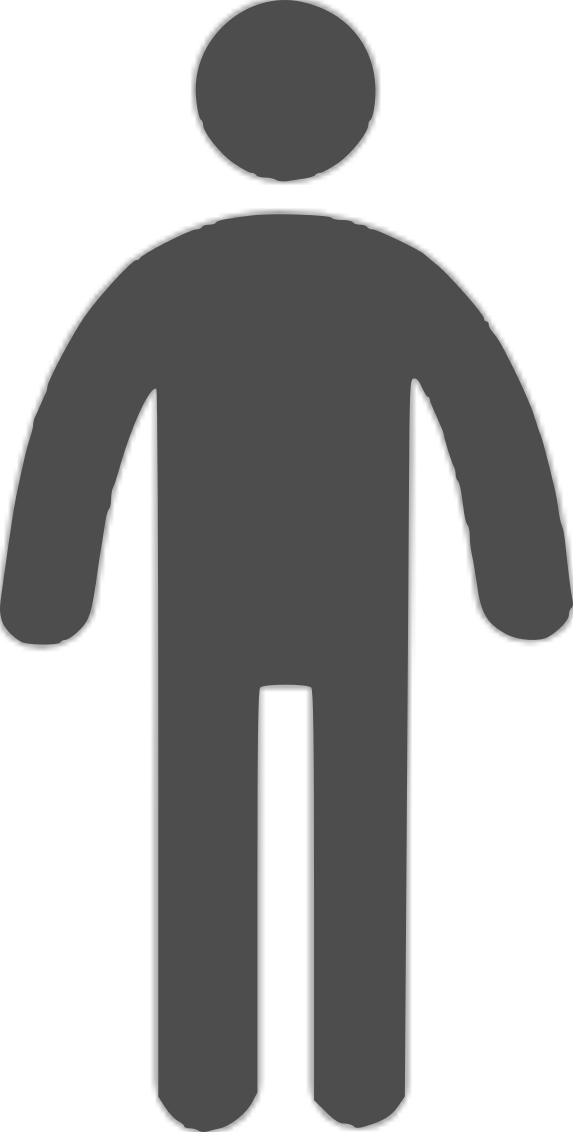
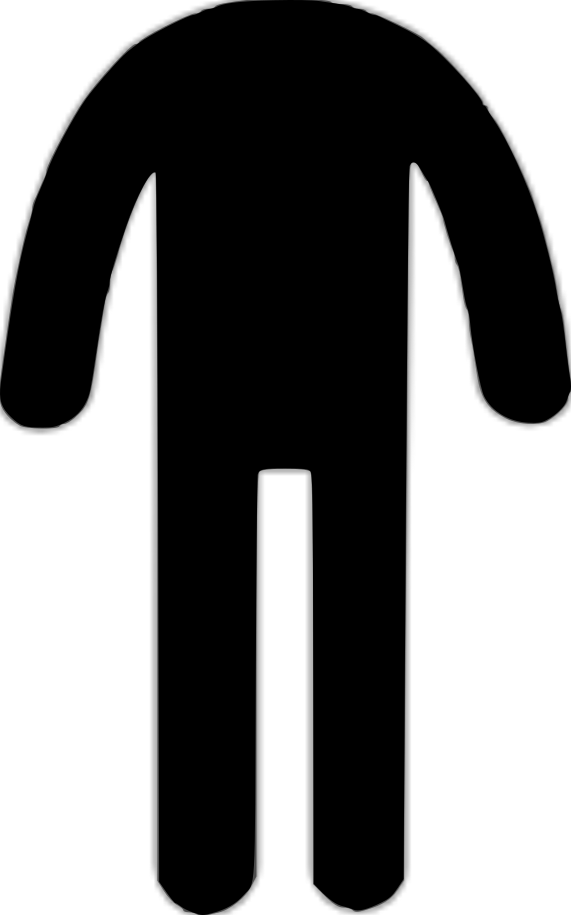
fixed the man.

diff --git a/index.html b/index.html
@@ -251,13 +251,8 @@
         </div>
     </div>
 
-    <div class="section" data-anchor="papaSection">
-        <div class="row">
-            <div class="col-md-offset-3">
-                <img class="img-responsive shrink" src="img/papa.jpg"/>
-                <h2>$15.8 Billion: Damages caused by Hurricane Irene to Flooded Areas</h2>
-            </div>
-        </div>
+    <div class="section" data-anchor="papaSection" id="costs-section">
+
     </div>
 
     <div class="section">

diff --git a/css/jstyle.css b/css/jstyle.css
@@ -225,6 +225,9 @@ select {
     background-image: url(../img/bg.png),url(../img/IMG_6887.JPG);
 }
 
+#costs-section{
+    background-image: url(../img/bg.png),url(../img/IMG_6980.JPG);
+}
 
 
 .section{
